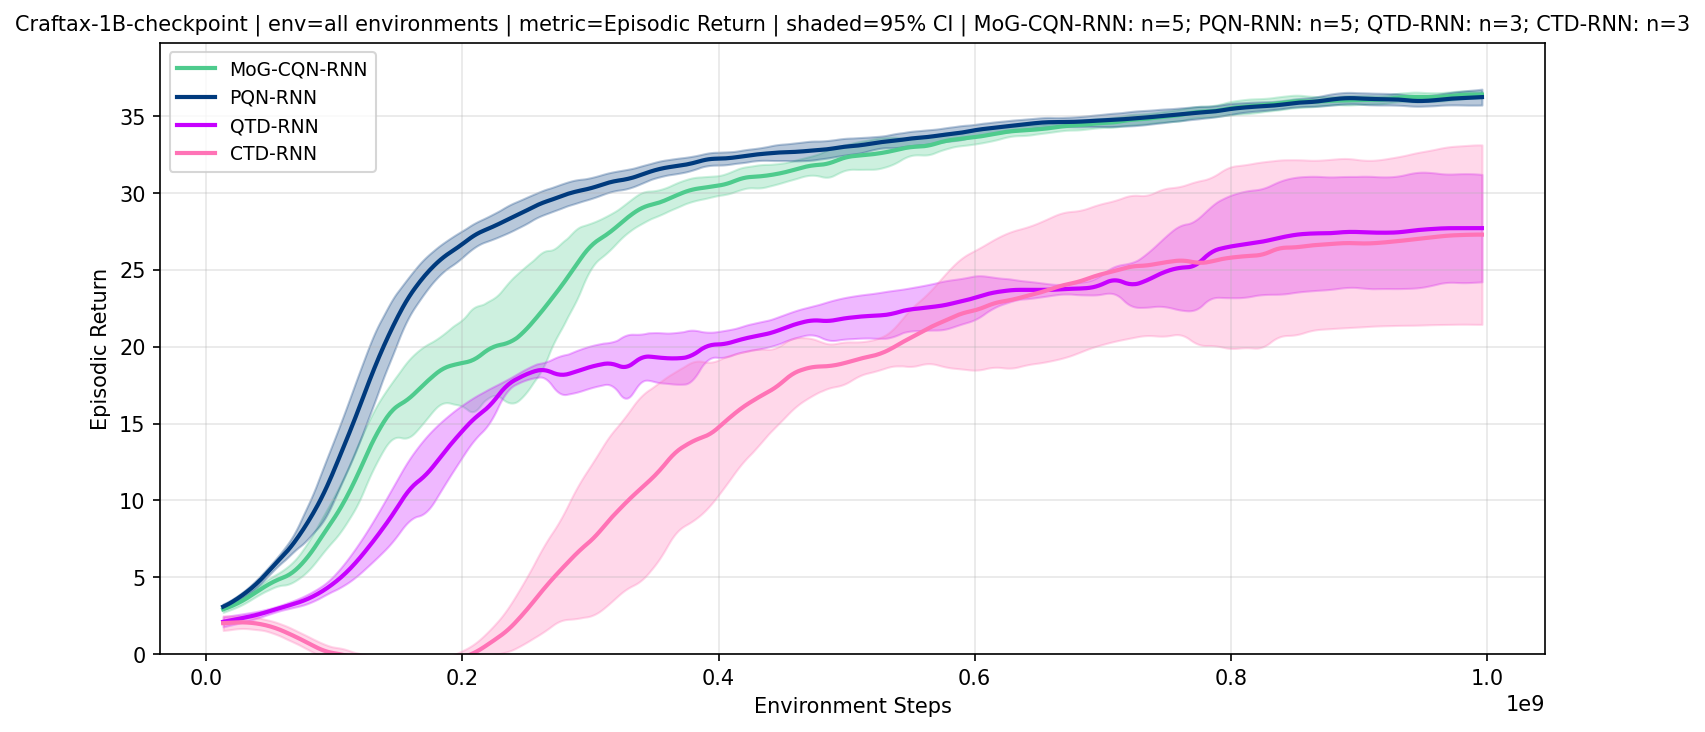
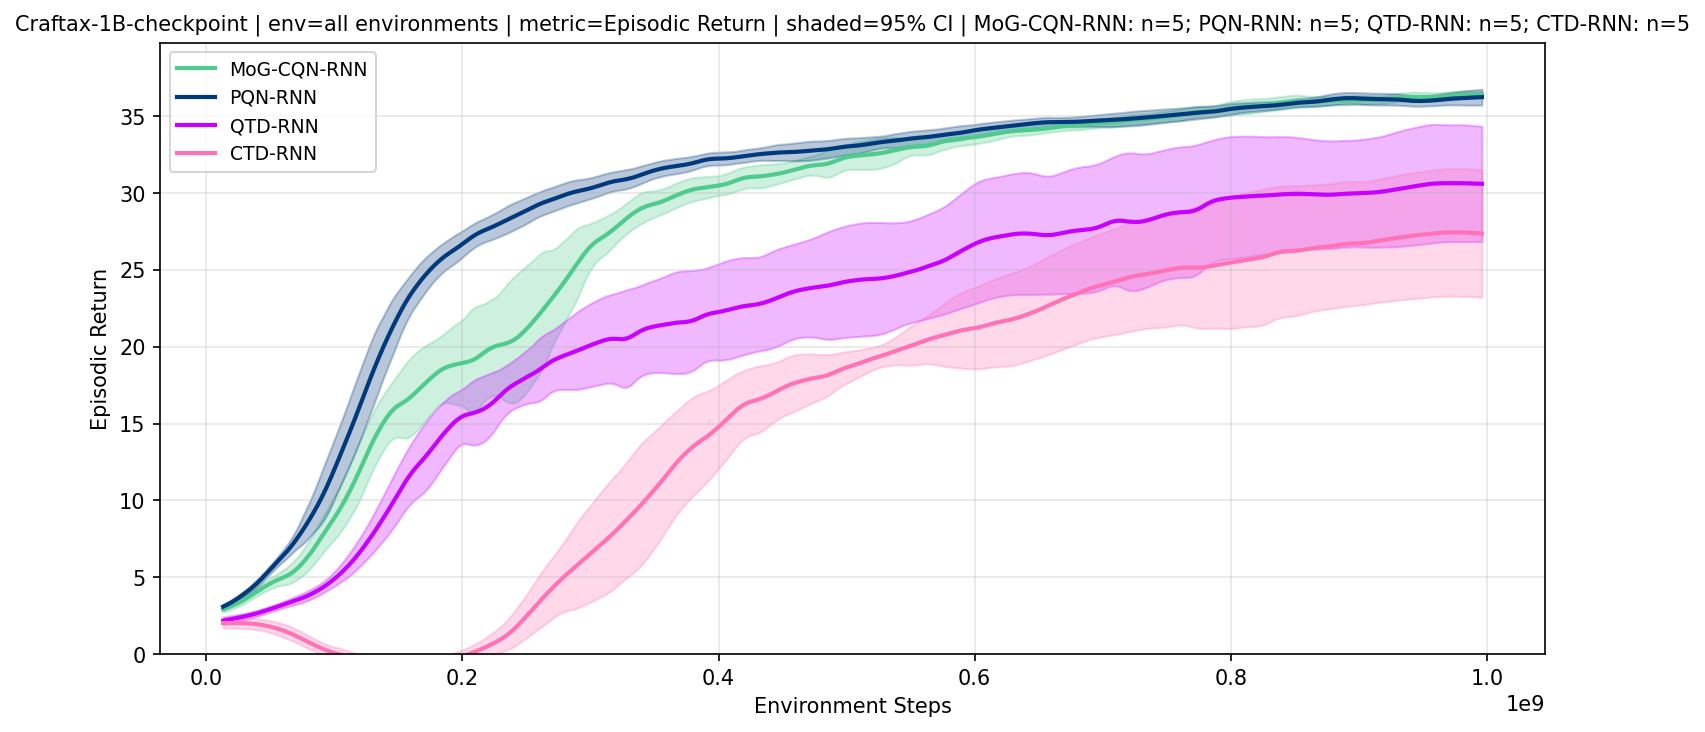
fix: changing plots

Changed region(s): [[0.1865, 0.1503, 0.8704, 0.9016], [0.1243, 0.8115, 0.1865, 0.8716], [0.5906, 0.4809, 0.6217, 0.5109]]

diff --git a/plot_wandb_craftax_rnn_compare.py b/plot_wandb_craftax_rnn_compare.py
@@ -255,11 +255,26 @@ def plot_craftax_rnn_compare(
         _render_single(_title_variant_path(out), include_titles=True)
 
 
+def _experiment_tags_for_group(group: dict) -> list[str]:
+    """Resolve experiment tag(s) for a group: ``experiment_tags`` (list) or ``experiment_tag`` (str)."""
+    if "experiment_tags" in group:
+        v = group["experiment_tags"]
+        if isinstance(v, str):
+            return [v]
+        return list(v)
+    return [group["experiment_tag"]]
+
+
+def _run_matches_any_experiment_tag(run, experiment_tags: list[str]) -> bool:
+    tags = set(run.tags or [])
+    return any(t in tags for t in experiment_tags)
+
+
 def plot_craftax_rnn_compare_multi_source(
     *,
     project: str,
     entity: str | None,
-    groups: list[dict[str, str]],
+    groups: list[dict],
     metric: str,
     step_metric: str,
     out: str,
@@ -275,9 +290,11 @@ def plot_craftax_rnn_compare_multi_source(
 
     Each group entry must contain:
       - name: unique display key for legend ordering
-      - experiment_tag: required tag for run selection
+      - experiment_tag: required tag for run selection (unless experiment_tags is set)
       - algo_tag: single algo tag required in run tags
     Optional:
+      - experiment_tags: list of W&B tags; run matches if it has **any** of them
+        (use this to pool seeds across experiments into one curve)
       - label: legend label override
       - linestyle: matplotlib line style (defaults to solid)
     """
@@ -288,10 +305,10 @@ def plot_craftax_rnn_compare_multi_source(
     by_name: dict[str, list] = defaultdict(list)
     for group in groups:
         name = group["name"]
-        required = [group["experiment_tag"]]
+        experiment_tags = _experiment_tags_for_group(group)
         algo_tag = group["algo_tag"]
         for run in runs:
-            if not _run_matches_required(run, required):
+            if not _run_matches_any_experiment_tag(run, experiment_tags):
                 continue
             if env_name_filter:
                 cfg = getattr(run, "config", None)
@@ -388,7 +405,10 @@ def plot_craftax_rnn_compare_multi_source(
         if include_titles:
             metric_title = _pretty_metric_label(metric)
             seed_summary = _group_seed_summary_text() or "no matched runs"
-            tags = ", ".join(sorted({g["experiment_tag"] for g in groups}))
+            all_exp_tags: list[str] = []
+            for g in groups:
+                all_exp_tags.extend(_experiment_tags_for_group(g))
+            tags = ", ".join(sorted(set(all_exp_tags)))
             env_txt = env_name_filter if env_name_filter else "all environments"
             ax.set_title(
                 f"{tags} | env={env_txt} | metric={metric_title} | shaded=95% CI | {seed_summary}",
@@ -432,18 +452,19 @@ def main() -> None:
     )
 
     #! Craftax 1B (using lambda=0.0 and aux mean loss weight=0.0)
-    #TODO: I will need to combine 3 seeds from Craftax-RNN-CTD-MoG-WeightedCF and 2 seeds from Craftax-1B-5ALG for MoG-CQN-RNN
+    # MoG-CQN-RNN: pool seeds from WeightedCF and 5ALG experiment tags into one curve.
     plot_craftax_rnn_compare_multi_source(
         project="Deep-CVI-Experiments",
         entity="fatty_data",
         groups=[
             {"name": "ctd_5alg", "experiment_tag": "Craftax-1B-5ALG", "algo_tag": "CTD_RNN"},
             {"name": "qtd_5alg", "experiment_tag": "Craftax-1B-5ALG", "algo_tag": "QTD_RNN"},
-            # {"name": "mog_5alg", "experiment_tag": "Craftax-1B-5ALG", "algo_tag": "MOG_PQN_RNN", "label": "MOG-CQN-RNN (5ALG)"},
             {"name": "pqn_5alg", "experiment_tag": "Craftax-1B-5ALG", "algo_tag": "PQN_RNN"},
             {
-                "name": "mog_weightedcf",
-                "experiment_tag": "Craftax-RNN-CTD-MoG-WeightedCF",
+                "name": "mog_combined",
+                "experiment_tags": [
+                    "Craftax-RNN-CTD-MoG-WeightedCF",
+                ],
                 "algo_tag": "MOG_PQN_RNN",
                 "label": "MoG-CQN-RNN",
             },

diff --git a/run_distribution_analysis.py b/run_distribution_analysis.py
@@ -1219,6 +1219,7 @@ def _plot_metric_tables(stderr: dict[str, tuple[np.ndarray, np.ndarray]], row_ke
 
 def _plot_panels(mean_p: dict[str, np.ndarray], se_p: dict[str, np.ndarray], te: np.ndarray, xe: np.ndarray, cf_hw: float, path: str) -> None:
     import matplotlib.pyplot as plt
+    from matplotlib.collections import LineCollection
 
     cf_series = (
         (("panel_phi_true",), "truth", "Truth"),
@@ -1270,6 +1271,36 @@ def _plot_panels(mean_p: dict[str, np.ndarray], se_p: dict[str, np.ndarray], te:
             pkey = _plot_resolve_panel_key(mean_p, candidates)
             if pkey is None:
                 continue
+            if ckey == "ctd":
+                # CTD is a discrete distribution: render it as Dirac-like spikes from CDF jumps.
+                cdf_key = _plot_resolve_panel_key(mean_p, ("panel_F_ctd", "panel_F_c51"))
+                if cdf_key is None:
+                    continue
+                cdf_vals = np.asarray(mean_p[cdf_key][row], dtype=np.float64)
+                jumps = np.diff(np.concatenate(([0.0], cdf_vals)))
+                jumps = np.clip(jumps, 0.0, None)
+                jump_se = np.zeros_like(jumps)
+                if cdf_key in se_p:
+                    cdf_se = np.asarray(se_p[cdf_key][row], dtype=np.float64)
+                    jump_se = np.clip(np.diff(np.concatenate(([0.0], cdf_se))), 0.0, None)
+                atom_x = xe
+                keep = (atom_x >= dist.plot_x_min) & (atom_x <= dist.plot_x_max) & (jumps > 1e-6)
+                if np.any(keep):
+                    segs = [((x, 0.0), (x, h)) for x, h in zip(atom_x[keep], jumps[keep])]
+                    axp.add_collection(LineCollection(segs, colors=PLOT_COLORS[ckey], linewidths=PLOT_LW[ckey], alpha=0.95))
+                    if np.any(jump_se[keep] > 0):
+                        axp.errorbar(
+                            atom_x[keep],
+                            jumps[keep],
+                            yerr=jump_se[keep],
+                            fmt="none",
+                            ecolor=PLOT_COLORS[ckey],
+                            elinewidth=0.8,
+                            alpha=0.35,
+                            capsize=0,
+                        )
+                    axp.plot([], [], color=PLOT_COLORS[ckey], lw=PLOT_LW[ckey], label=label)
+                continue
             if ckey == "truth":
                 y = np.asarray(mean_p[pkey][row], dtype=np.float64)
                 ys = np.asarray(se_p.get(pkey, np.zeros_like(mean_p[pkey]))[row], dtype=np.float64)
@@ -1289,8 +1320,11 @@ def _plot_panels(mean_p: dict[str, np.ndarray], se_p: dict[str, np.ndarray], te:
                 continue
             y = mean_p[pkey][row]
             ys = se_p.get(pkey, np.zeros_like(mean_p[pkey]))[row]
-            axc.fill_between(xe[xmask], (y - ys)[xmask], (y + ys)[xmask], color=PLOT_COLORS[ckey], alpha=0.18, lw=0)
-            axc.plot(xe[xmask], y[xmask], color=PLOT_COLORS[ckey], lw=PLOT_LW[ckey], label=label)
+            axc.fill_between(xe[xmask], (y - ys)[xmask], (y + ys)[xmask], color=PLOT_COLORS[ckey], alpha=0.18, lw=0, step="post" if ckey == "ctd" else None)
+            if ckey == "ctd":
+                axc.step(xe[xmask], y[xmask], where="post", color=PLOT_COLORS[ckey], lw=PLOT_LW[ckey], label=label)
+            else:
+                axc.plot(xe[xmask], y[xmask], color=PLOT_COLORS[ckey], lw=PLOT_LW[ckey], label=label)
         _plot_minimal_style(axc)
         axc.set_xlim(dist.plot_x_min, dist.plot_x_max)
         if row == 0:
